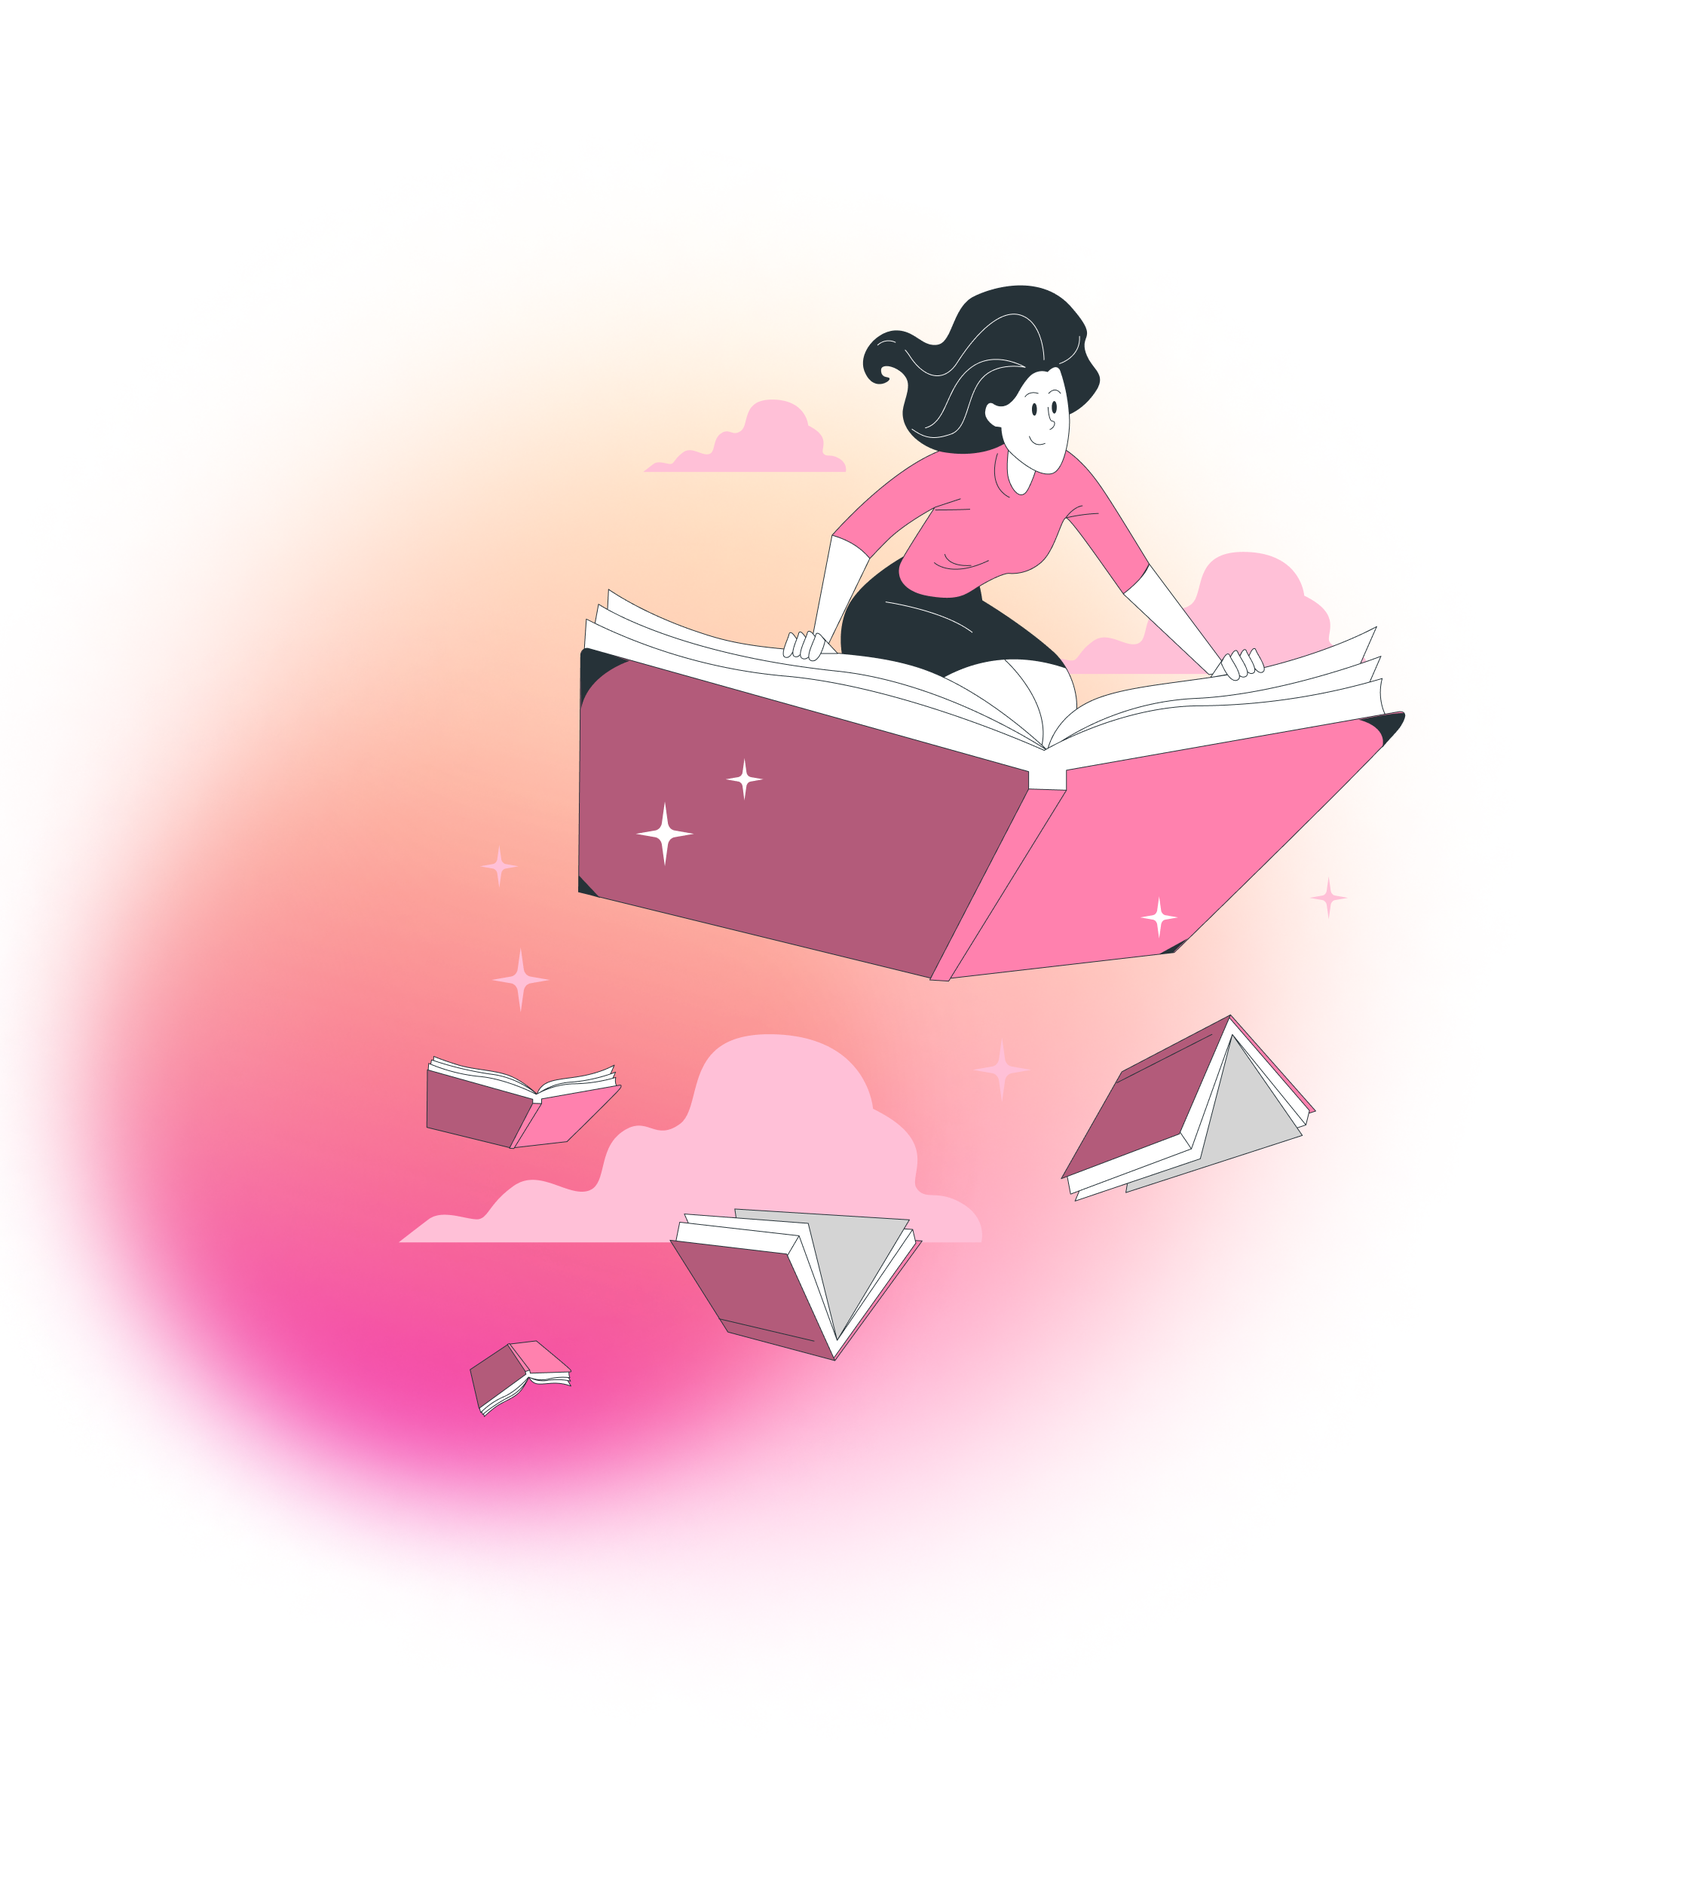
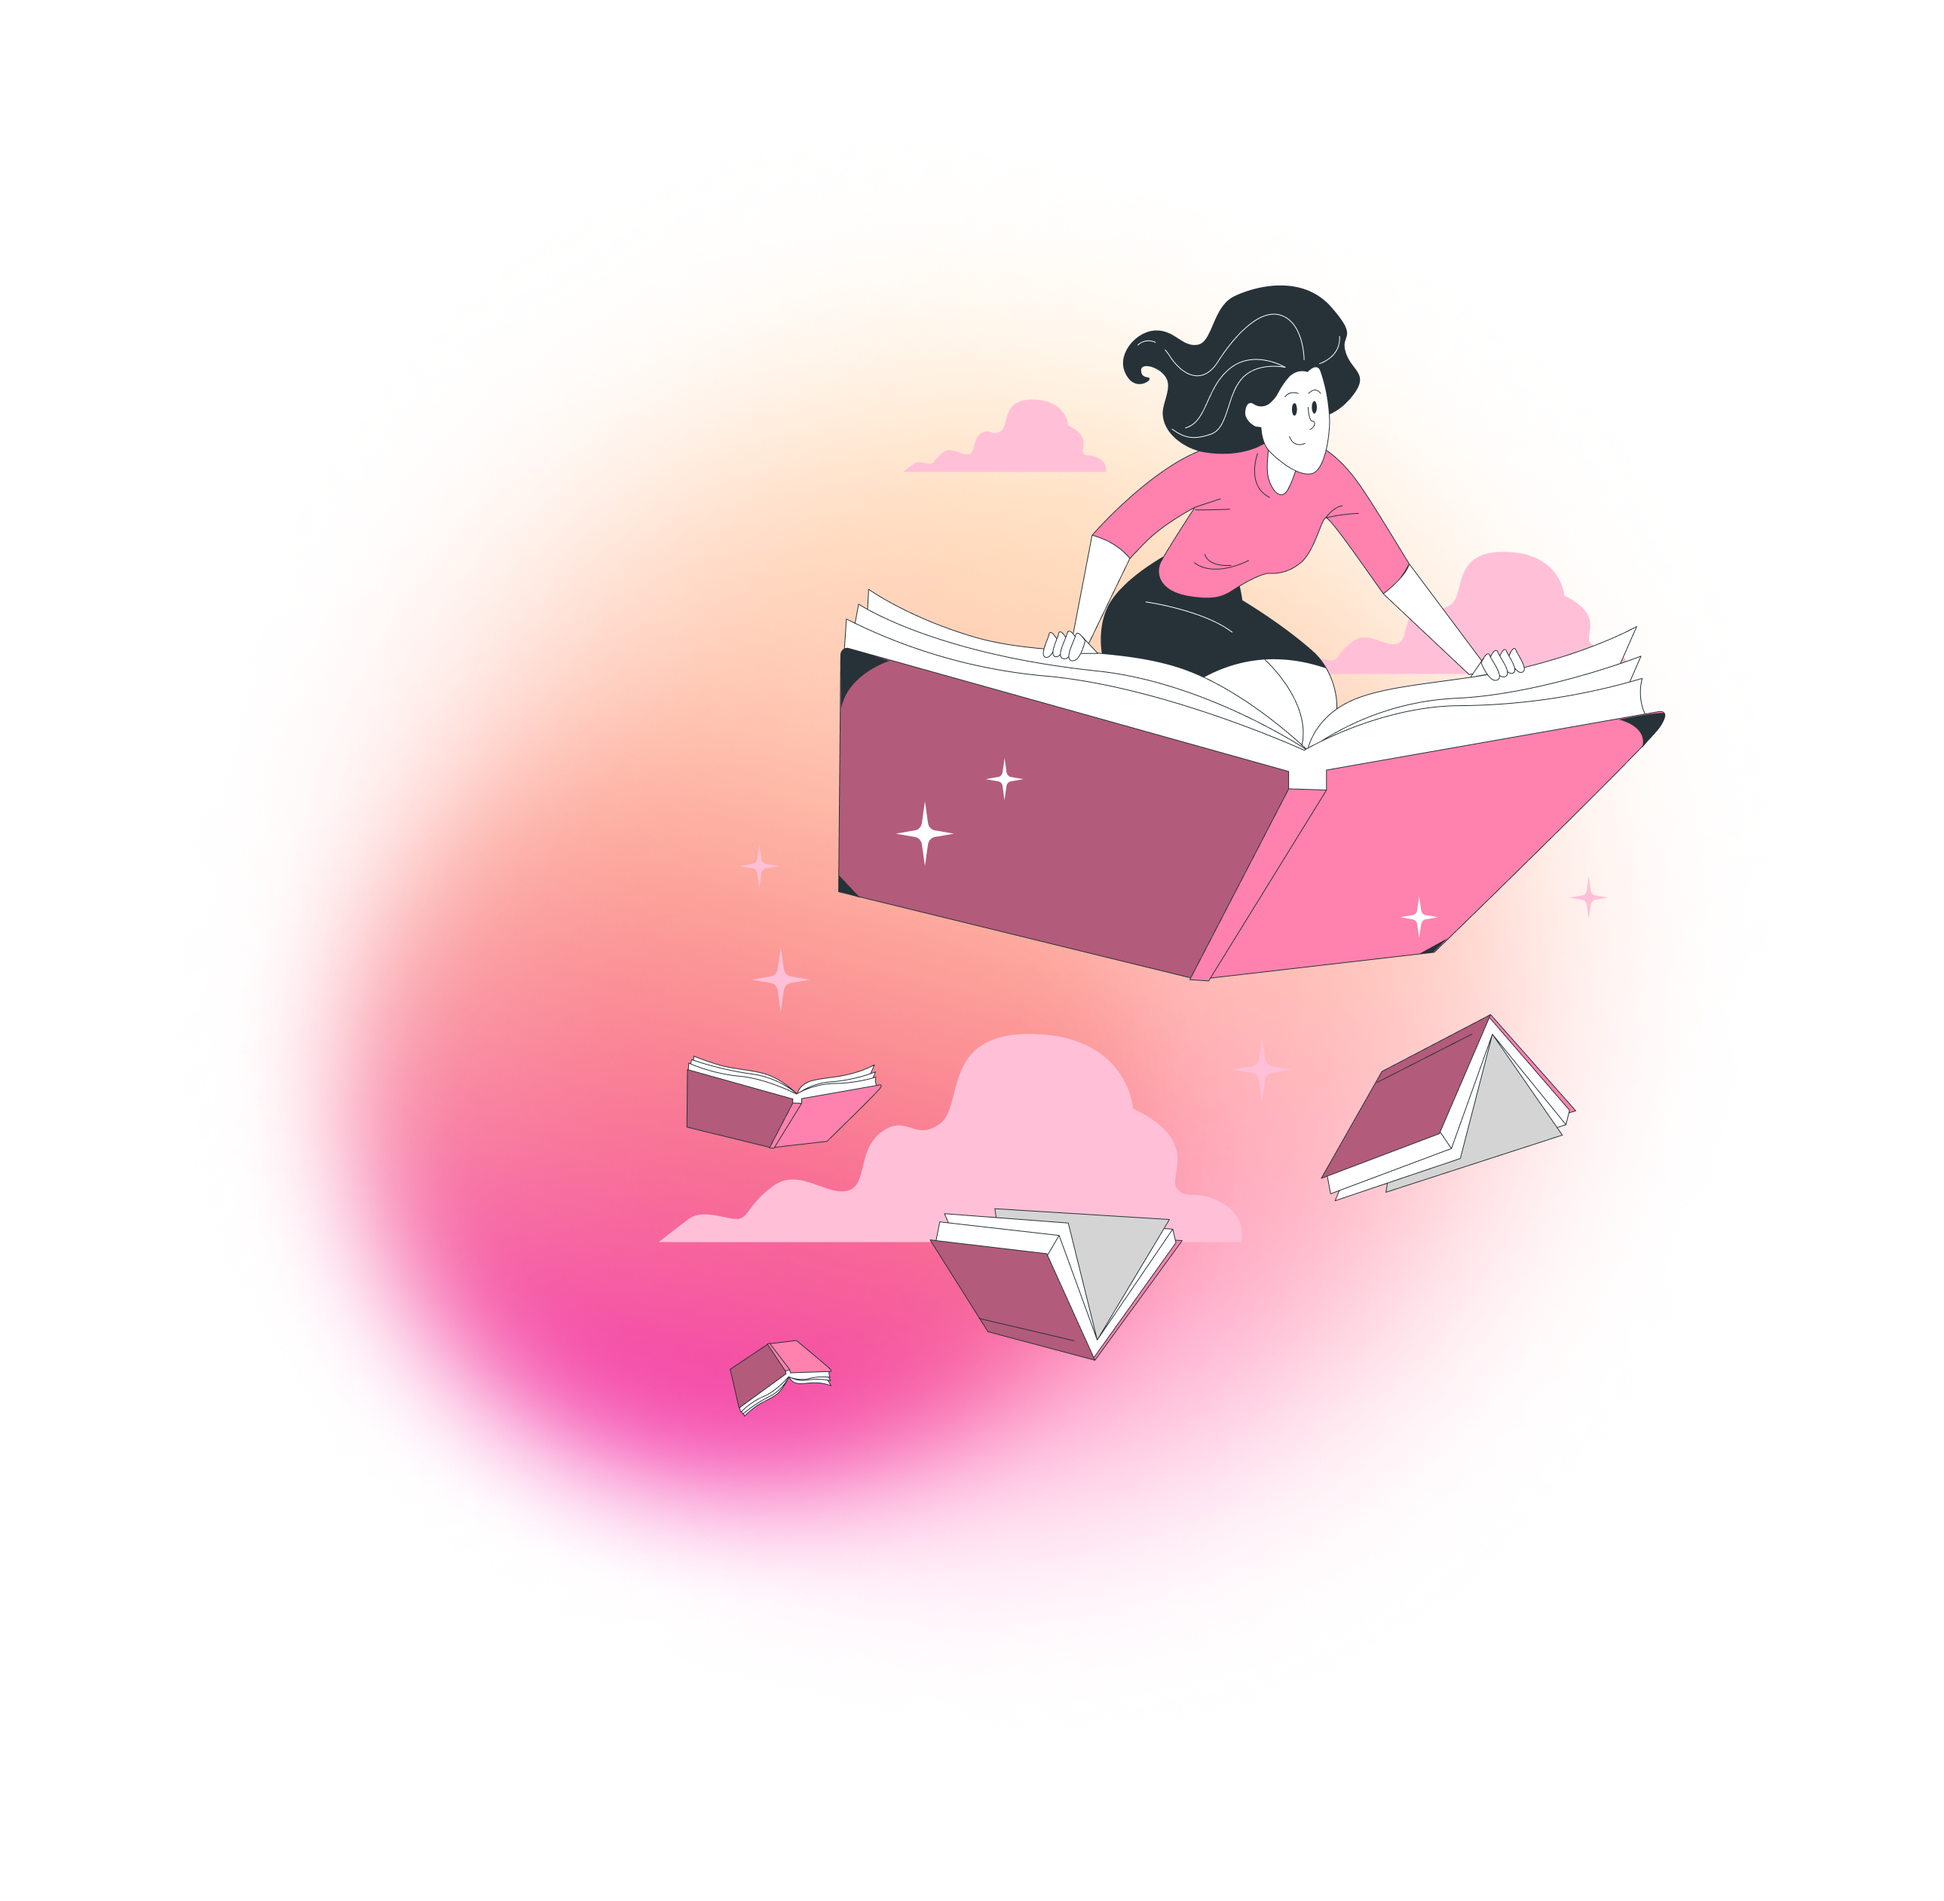
posicionando os textos de maneira correta

Changed region(s): [[0.0, 0.1237, 0.8648, 0.8351]]

diff --git a/src/Components/Article/article.tsx b/src/Components/Article/article.tsx
@@ -71,33 +71,35 @@ const Article: React.FC = () => {
             className={styles.img1}
           />
 
-          <section>
+          <section className={styles.habitoleitura}>
             <h2>
               <BiSolidBookHeart className={styles.icons} /> Como Manter o Hábito
               de Leitura?
             </h2>
             <ol>
               <li>
-                <strong>Comece Pequeno:</strong> Não tente devorar um clássico
-                da literatura logo de cara. Escolha livros curtos ou que abordem
-                temas de seu interesse. Histórias envolventes ajudam a criar uma
-                conexão emocional com a leitura.
+                <strong>Comece Pequeno:</strong> <br />
+                Não tente devorar um clássico da literatura logo de cara.
+                Escolha livros curtos ou que abordem temas de seu interesse.
+                Histórias envolventes ajudam a criar uma conexão emocional com a
+                leitura.
               </li>
               <li>
-                <strong>Estabeleça uma Rotina:</strong> Dedique um horário
-                específico do dia para ler. Pode ser pela manhã, antes de dormir
-                ou durante o trajeto no transporte público. Transforme a leitura
-                em um ritual.
+                <strong>Estabeleça uma Rotina:</strong>
+                <br /> Dedique um horário específico do dia para ler. Pode ser
+                pela manhã, antes de dormir ou durante o trajeto no transporte
+                público. Transforme a leitura em um ritual.
               </li>
               <li>
-                <strong>enha Metas Realistas:</strong> Defina objetivos
-                alcançáveis, como ler 10 páginas por dia ou um livro por mês.
-                Conforme avança, ajuste suas metas.
+                <strong>enha Metas Realistas:</strong>
+                <br /> Defina objetivos alcançáveis, como ler 10 páginas por dia
+                ou um livro por mês. Conforme avança, ajuste suas metas.
               </li>
               <li>
-                <strong>Crie um Ambiente Convidativo:</strong> Escolha um local
-                tranquilo, bem iluminado e sem distrações para ler. Um espaço
-                acolhedor pode fazer toda a diferença.
+                <strong>Crie um Ambiente Convidativo:</strong>
+                <br /> Escolha um local tranquilo, bem iluminado e sem
+                distrações para ler. Um espaço acolhedor pode fazer toda a
+                diferença.
               </li>
               <li>
                 <strong>Tenha Sempre um Livro por Perto:</strong> Carregue um
@@ -107,7 +109,7 @@ const Article: React.FC = () => {
             </ol>
           </section>
 
-          <section>
+          <section className={styles.lerMais}>
             <h2>
               <GiBurningBook className={styles.icons} /> Como Ler Mais
             </h2>
@@ -133,7 +135,7 @@ const Article: React.FC = () => {
             className={styles.img2}
           />
 
-          <section>
+          <section className={styles.comecar}>
             <h2>Por Onde Começar?</h2>
             <p>Se não sabe por onde começar, aqui estão algumas sugestões:</p>
             <ul>

diff --git a/src/Components/Article/style.module.scss b/src/Components/Article/style.module.scss
@@ -1,5 +1,7 @@
 .main {
   margin-top: -200px;
+
+  max-width: 1400px;
   button {
     height: 30px;
     margin-left: 700px;
@@ -36,6 +38,19 @@
     strong {
       font-weight: 500;
     }
+
+    .habitoleitura {
+      width: 700px;
+      display: flex;
+      flex-direction: column;
+    }
+    .lerMais {
+      width: 900px;
+    }
+
+    .comecar {
+      margin-top: -100px;
+    }
   }
   .icons {
     color: #f6346d;
@@ -44,11 +59,13 @@
   }
   .img1 {
     float: left;
-    margin-left: -100px;
+    margin-left: 0px;
+
     margin-top: -30px;
   }
 
   .img2 {
+    float: right;
   }
 
   .img3 {
